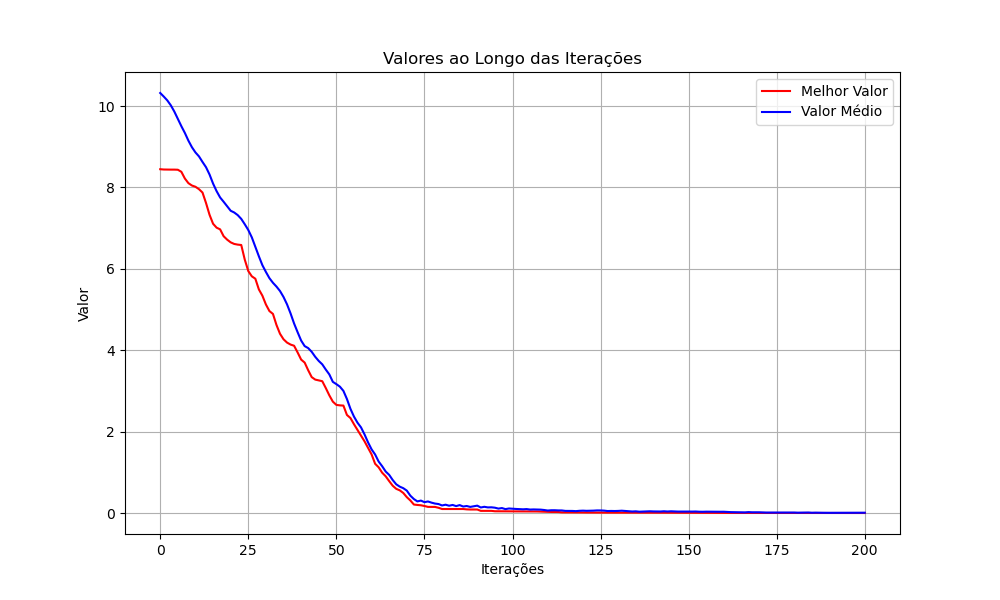
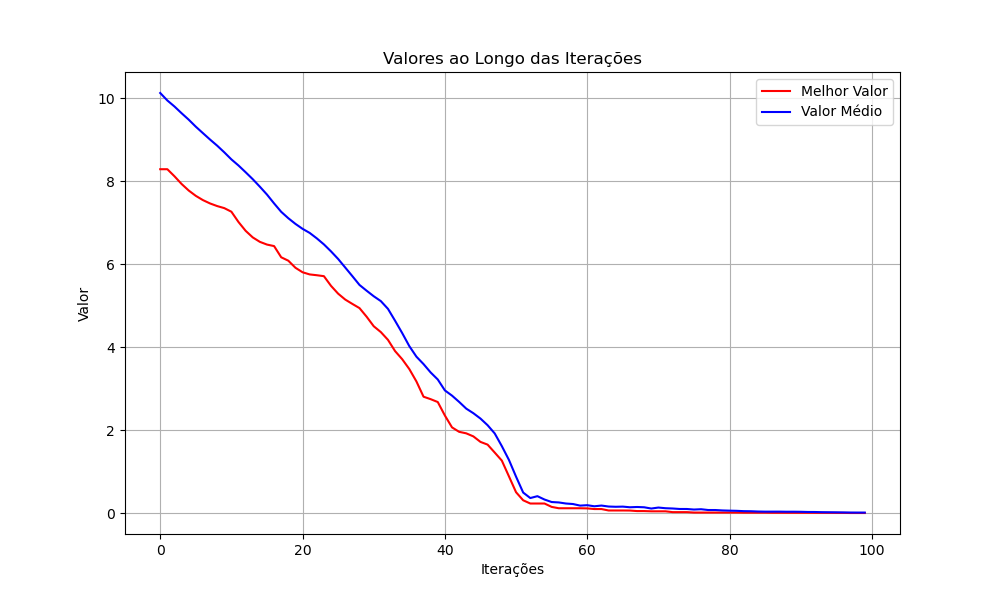
peso inercia e fator constrição

diff --git a/PSO/pso.py b/PSO/pso.py
@@ -4,13 +4,17 @@ from concurrent.futures import ThreadPoolExecutor
 
 DIMENSIONS = 10         
 GLOBAL_BEST = 0.0       
-B_LO, B_HI = -5.0, 5.0  #espaço de busca
+B_LO, B_HI = -5.0, 5.0  # Espaço de busca
 POPULATION = 20         
-V_MAX = 0.1             #velocidade maxima
-PERSONAL_C = 2.0        #coeficiente pessoal
-SOCIAL_C = 2.0          #coeficiente social
-CONVERGENCE = 0.001     #critério de convergência
-MAX_ITER = 1000               
+V_MAX = 0.1             # Velocidade máxima
+PERSONAL_C = 2.0        # Coeficiente pessoal
+SOCIAL_C = 2.0          # Coeficiente social
+CONVERGENCE = 0.0001     # Critério de convergência
+MAX_ITER = 100         # Máximo de iterações
+
+# Fator de constrição (k) e cálculo de phi
+PHI = PERSONAL_C + SOCIAL_C
+CONSTRICTION_FACTOR = 2 / abs(2 - PHI - np.sqrt(PHI ** 2 - 4 * PHI))
 
 # Função de custo (Ackley)
 def cost_function(pos):
@@ -39,7 +43,9 @@ class Particle:
         r1, r2 = np.random.random(DIMENSIONS), np.random.random(DIMENSIONS)
         cognitive = PERSONAL_C * r1 * (self.best_pos - self.pos)
         social = SOCIAL_C * r2 * (global_best_pos - self.pos)
-        self.velocity = inertia_weight * self.velocity + cognitive + social
+        self.velocity = CONSTRICTION_FACTOR * (
+            inertia_weight * self.velocity + cognitive + social
+        )
         self.velocity = np.clip(self.velocity, -V_MAX, V_MAX)
 
     def update_position(self):
@@ -81,11 +87,19 @@ class Swarm:
 # Função principal para o PSO
 def particle_swarm_optimization():
     swarm = Swarm(POPULATION, DIMENSIONS)
-    inertia_weight = 0.5 + np.random.random() / 2.0
+
+    # Peso de inércia inicial
+    inertia_weight = 0.9
+    inertia_weight_min = 0.4
 
     iterations_data = []
 
     for iter_num in range(MAX_ITER):
+        # Reduz o peso de inércia linearmente
+        inertia_weight = max(
+            inertia_weight_min,
+            inertia_weight - (0.9 - inertia_weight_min) / MAX_ITER
+        )
         swarm.update(inertia_weight)
 
         avg_pos_z = np.mean([p.pos_z for p in swarm.particles])
@@ -98,7 +112,11 @@ def particle_swarm_optimization():
     print("Melhor posição encontrada:", swarm.best_pos)
     print("Melhor valor encontrado:", swarm.best_pos_z)
 
-    return iterations_data
+    print("Distância ao zero por dimensão:")
+    for i, value in enumerate(swarm.best_pos):
+        print(f"Dimensão {i+1}: {value:.6f}")
+
+    return iterations_data, swarm.best_pos, swarm.best_pos_z
 
 # Função para plotar os resultados
 def plot_iterations(data, filename):
@@ -117,5 +135,5 @@ def plot_iterations(data, filename):
 
 # Executa o PSO e plota os resultados
 if __name__ == "__main__":
-    iterations_data = particle_swarm_optimization()
+    iterations_data, best_pos, best_pos_z = particle_swarm_optimization()
     plot_iterations(iterations_data, "resultado.png")
